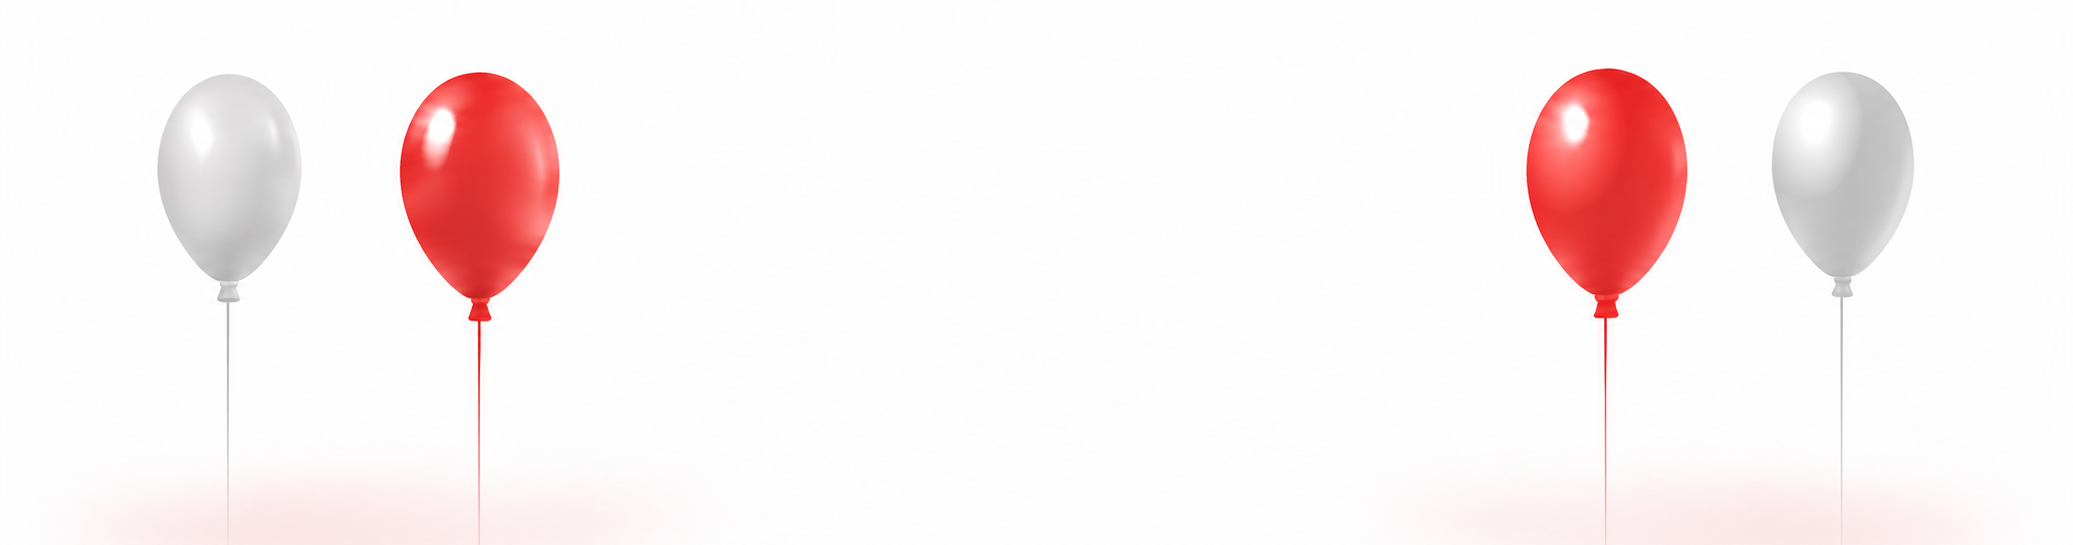
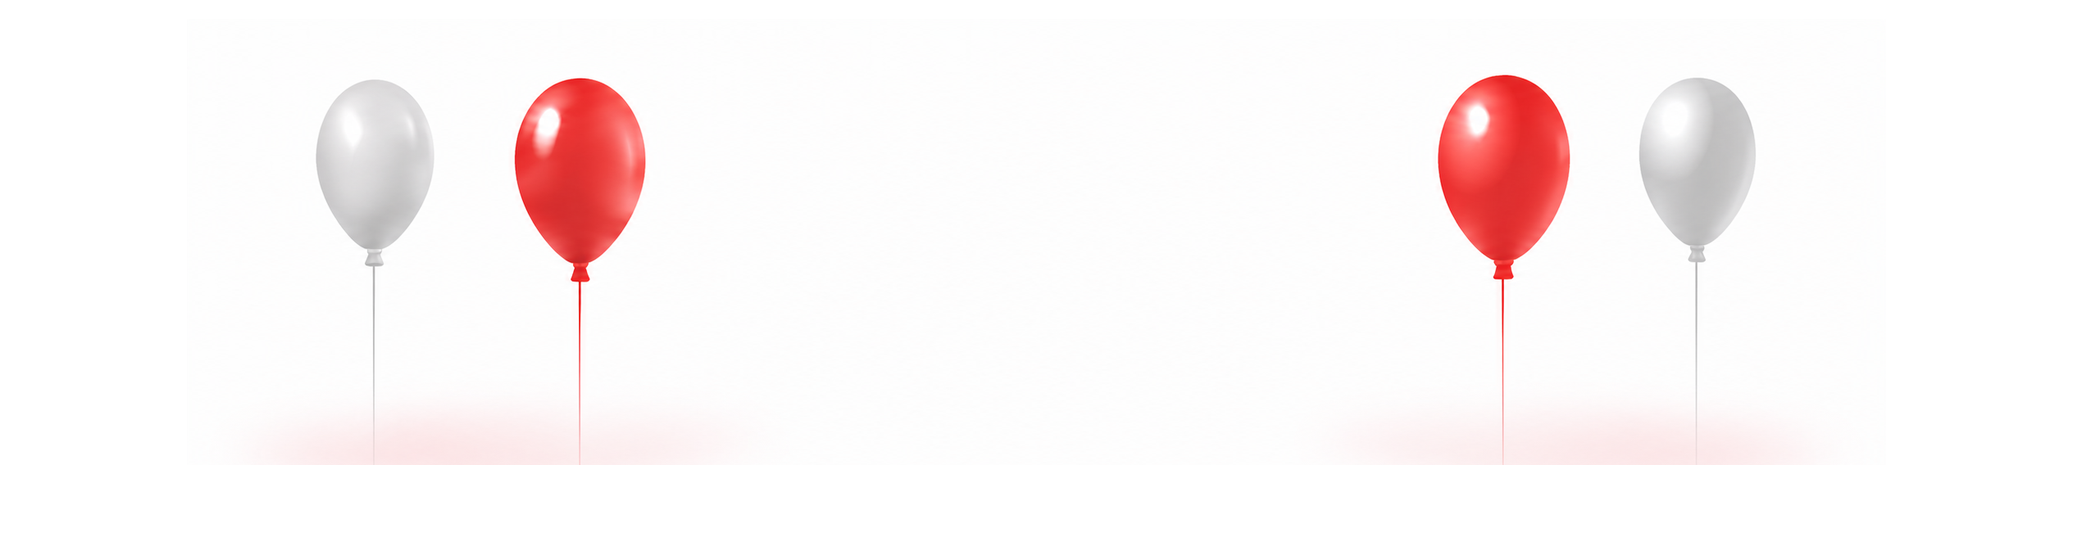
Add files via upload

diff --git a/styles.css b/styles.css
@@ -952,3 +952,64 @@ textarea:focus {
     display: none !important;
   }
 }
+
+
+/* v23 refinements requested */
+
+/* Make the generated balloon header artwork smaller and neater */
+.header-balloons {
+  background-size: min(86vw, 1080px) auto !important;
+  background-position: center 2px !important;
+}
+
+/* Make hero panel layout cleaner and remove bleed/red strip issue */
+.hero-banner {
+  overflow: hidden !important;
+  background: #fff !important;
+}
+
+/* remove internal hero red lines/bleed entirely */
+.hero-banner::before,
+.hero-banner::after {
+  display: none !important;
+  content: none !important;
+}
+
+/* keep both sides flush inside the hero box */
+.hero-copy {
+  background: #fff !important;
+  border-radius: 0 !important;
+}
+
+.hero-image {
+  background: #fff url('images/van.png') center/contain no-repeat !important;
+  border-radius: 0 !important;
+  overflow: hidden !important;
+}
+
+/* remove red line image/old flow if it exists */
+.hero-flow,
+.hero-watermark,
+.hero-balloons,
+.hero-balloon {
+  display: none !important;
+}
+
+/* Make the homepage hero card white border/edge consistent */
+.page-hero .hero-banner {
+  border: 1px solid rgba(207,47,40,.10) !important;
+  box-shadow: 0 20px 44px rgba(31,36,48,.08) !important;
+}
+
+/* Service tiles: no unwanted internal lines/bleed from hero styles */
+.tiles-section,
+.tiles-grid,
+.tile {
+  overflow: hidden;
+}
+
+@media (max-width: 820px) {
+  .header-balloons {
+    display: none !important;
+  }
+}
